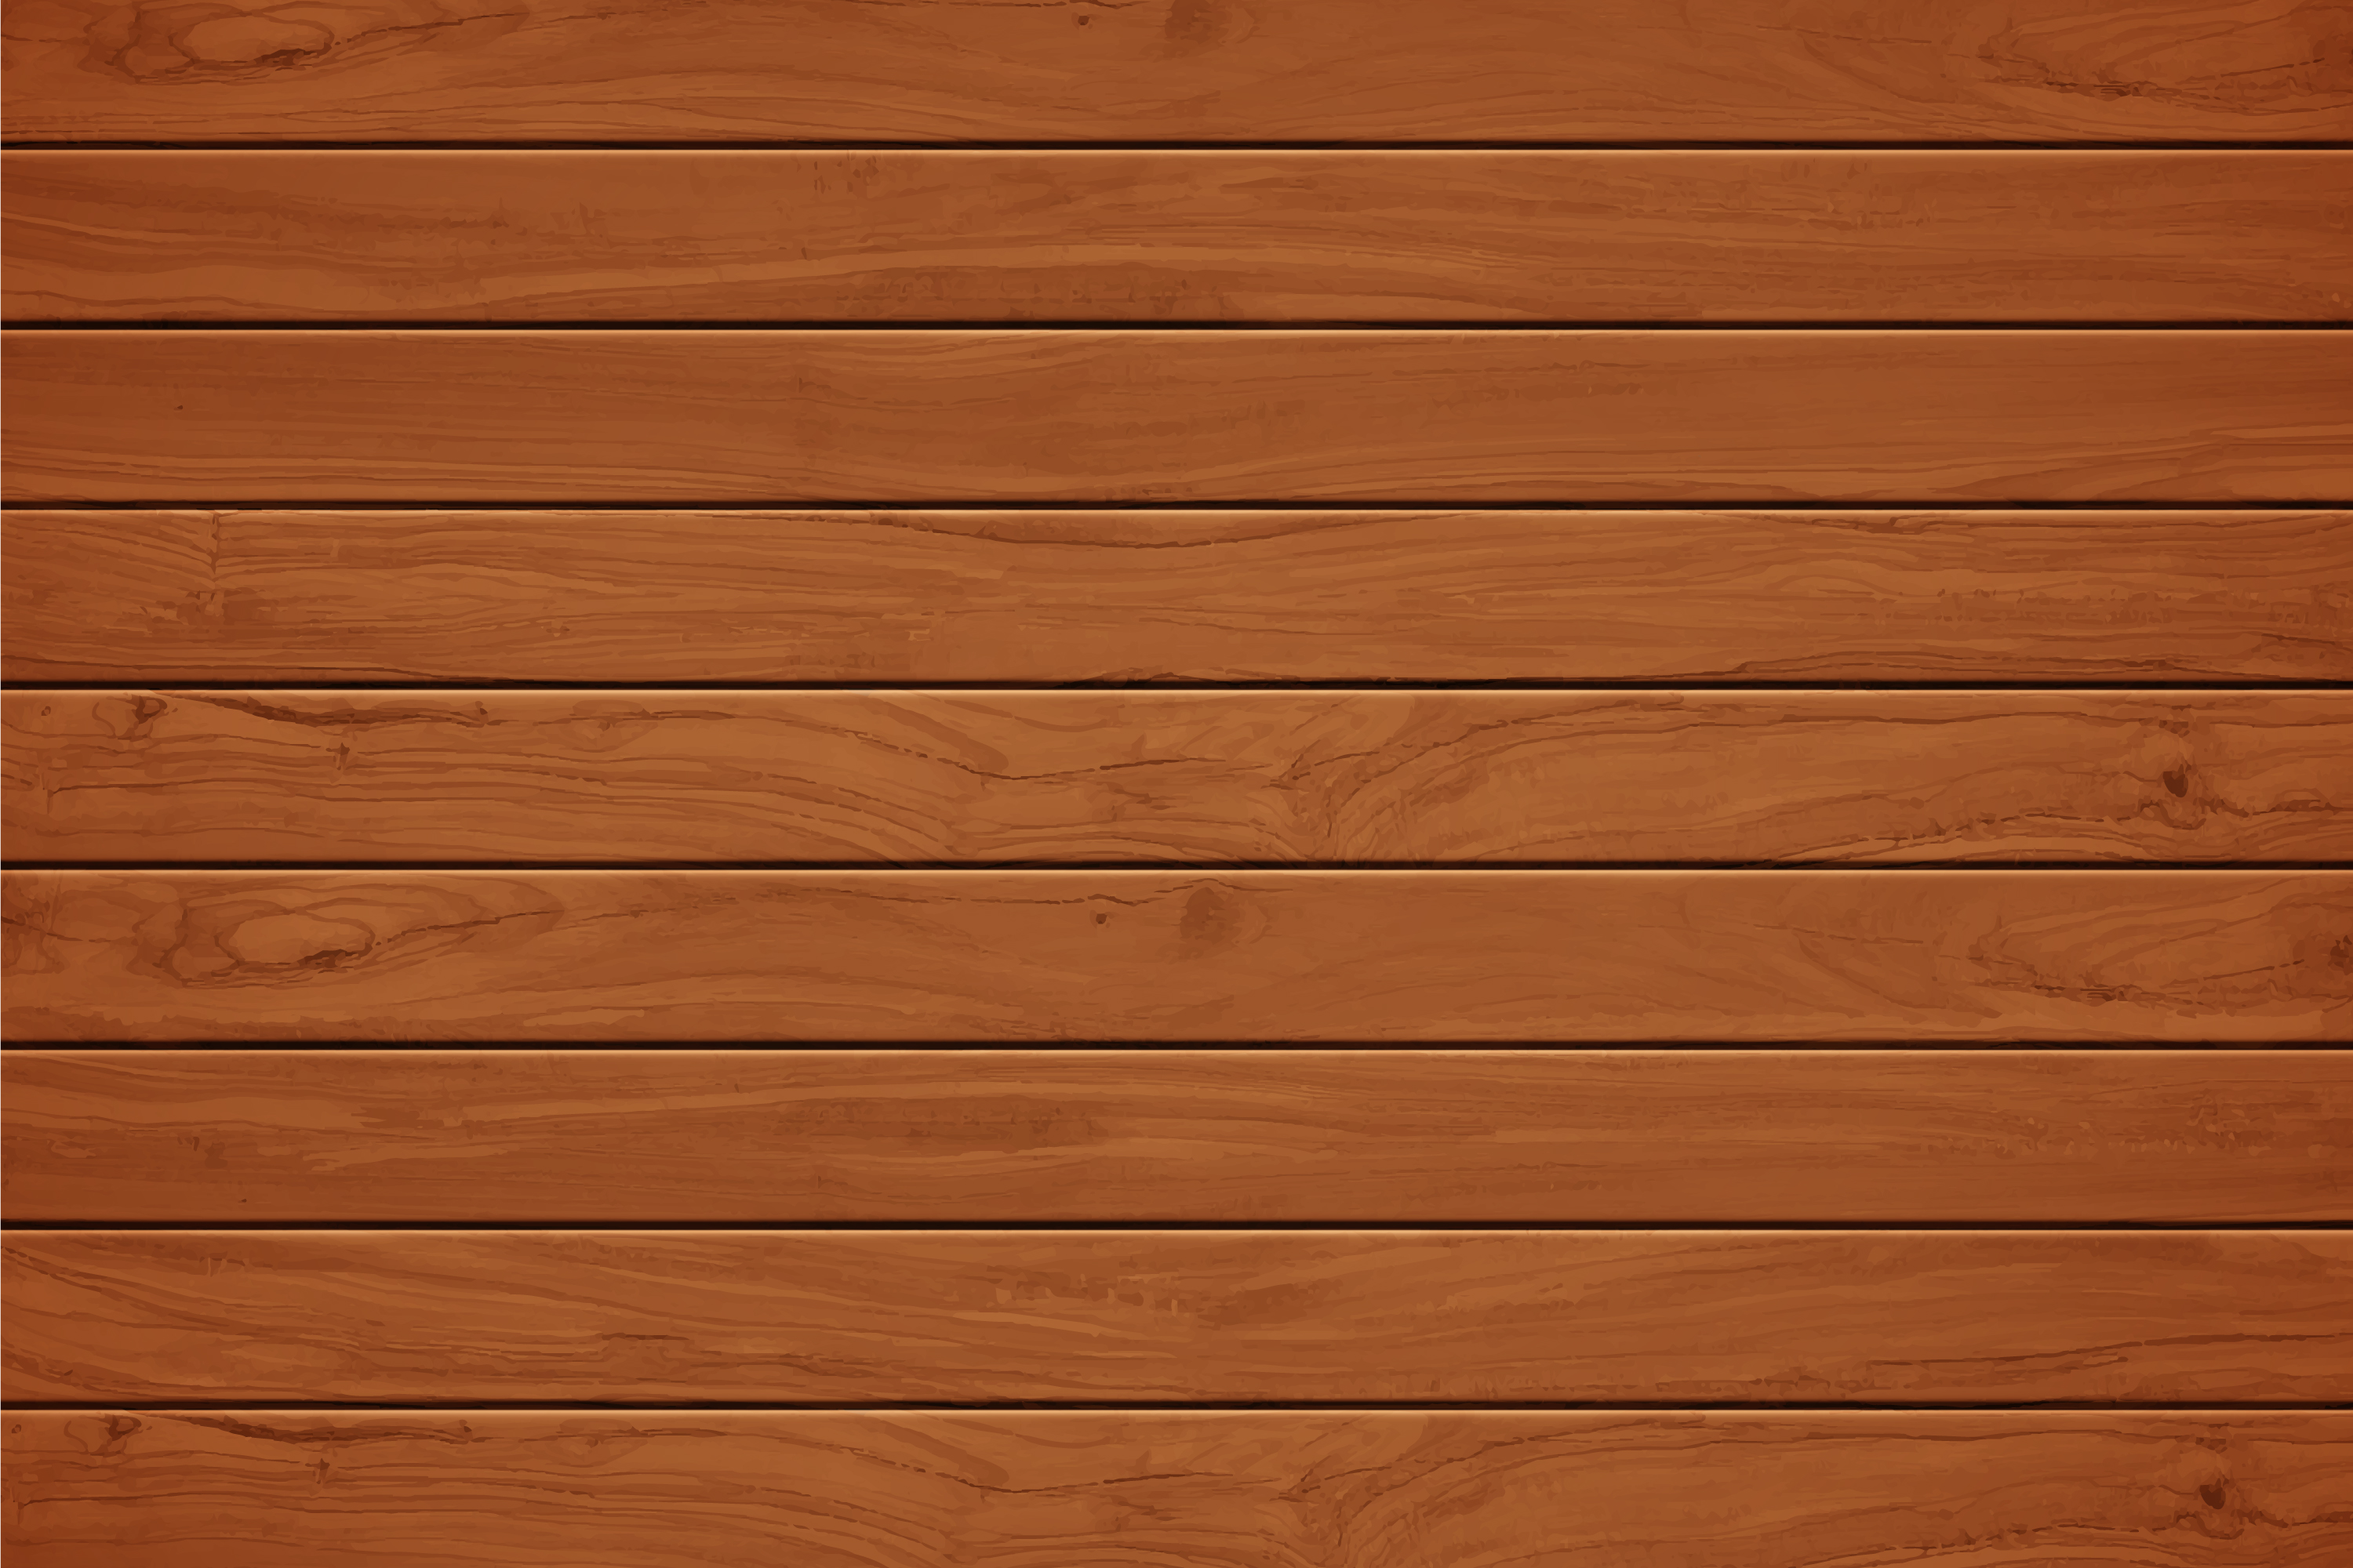
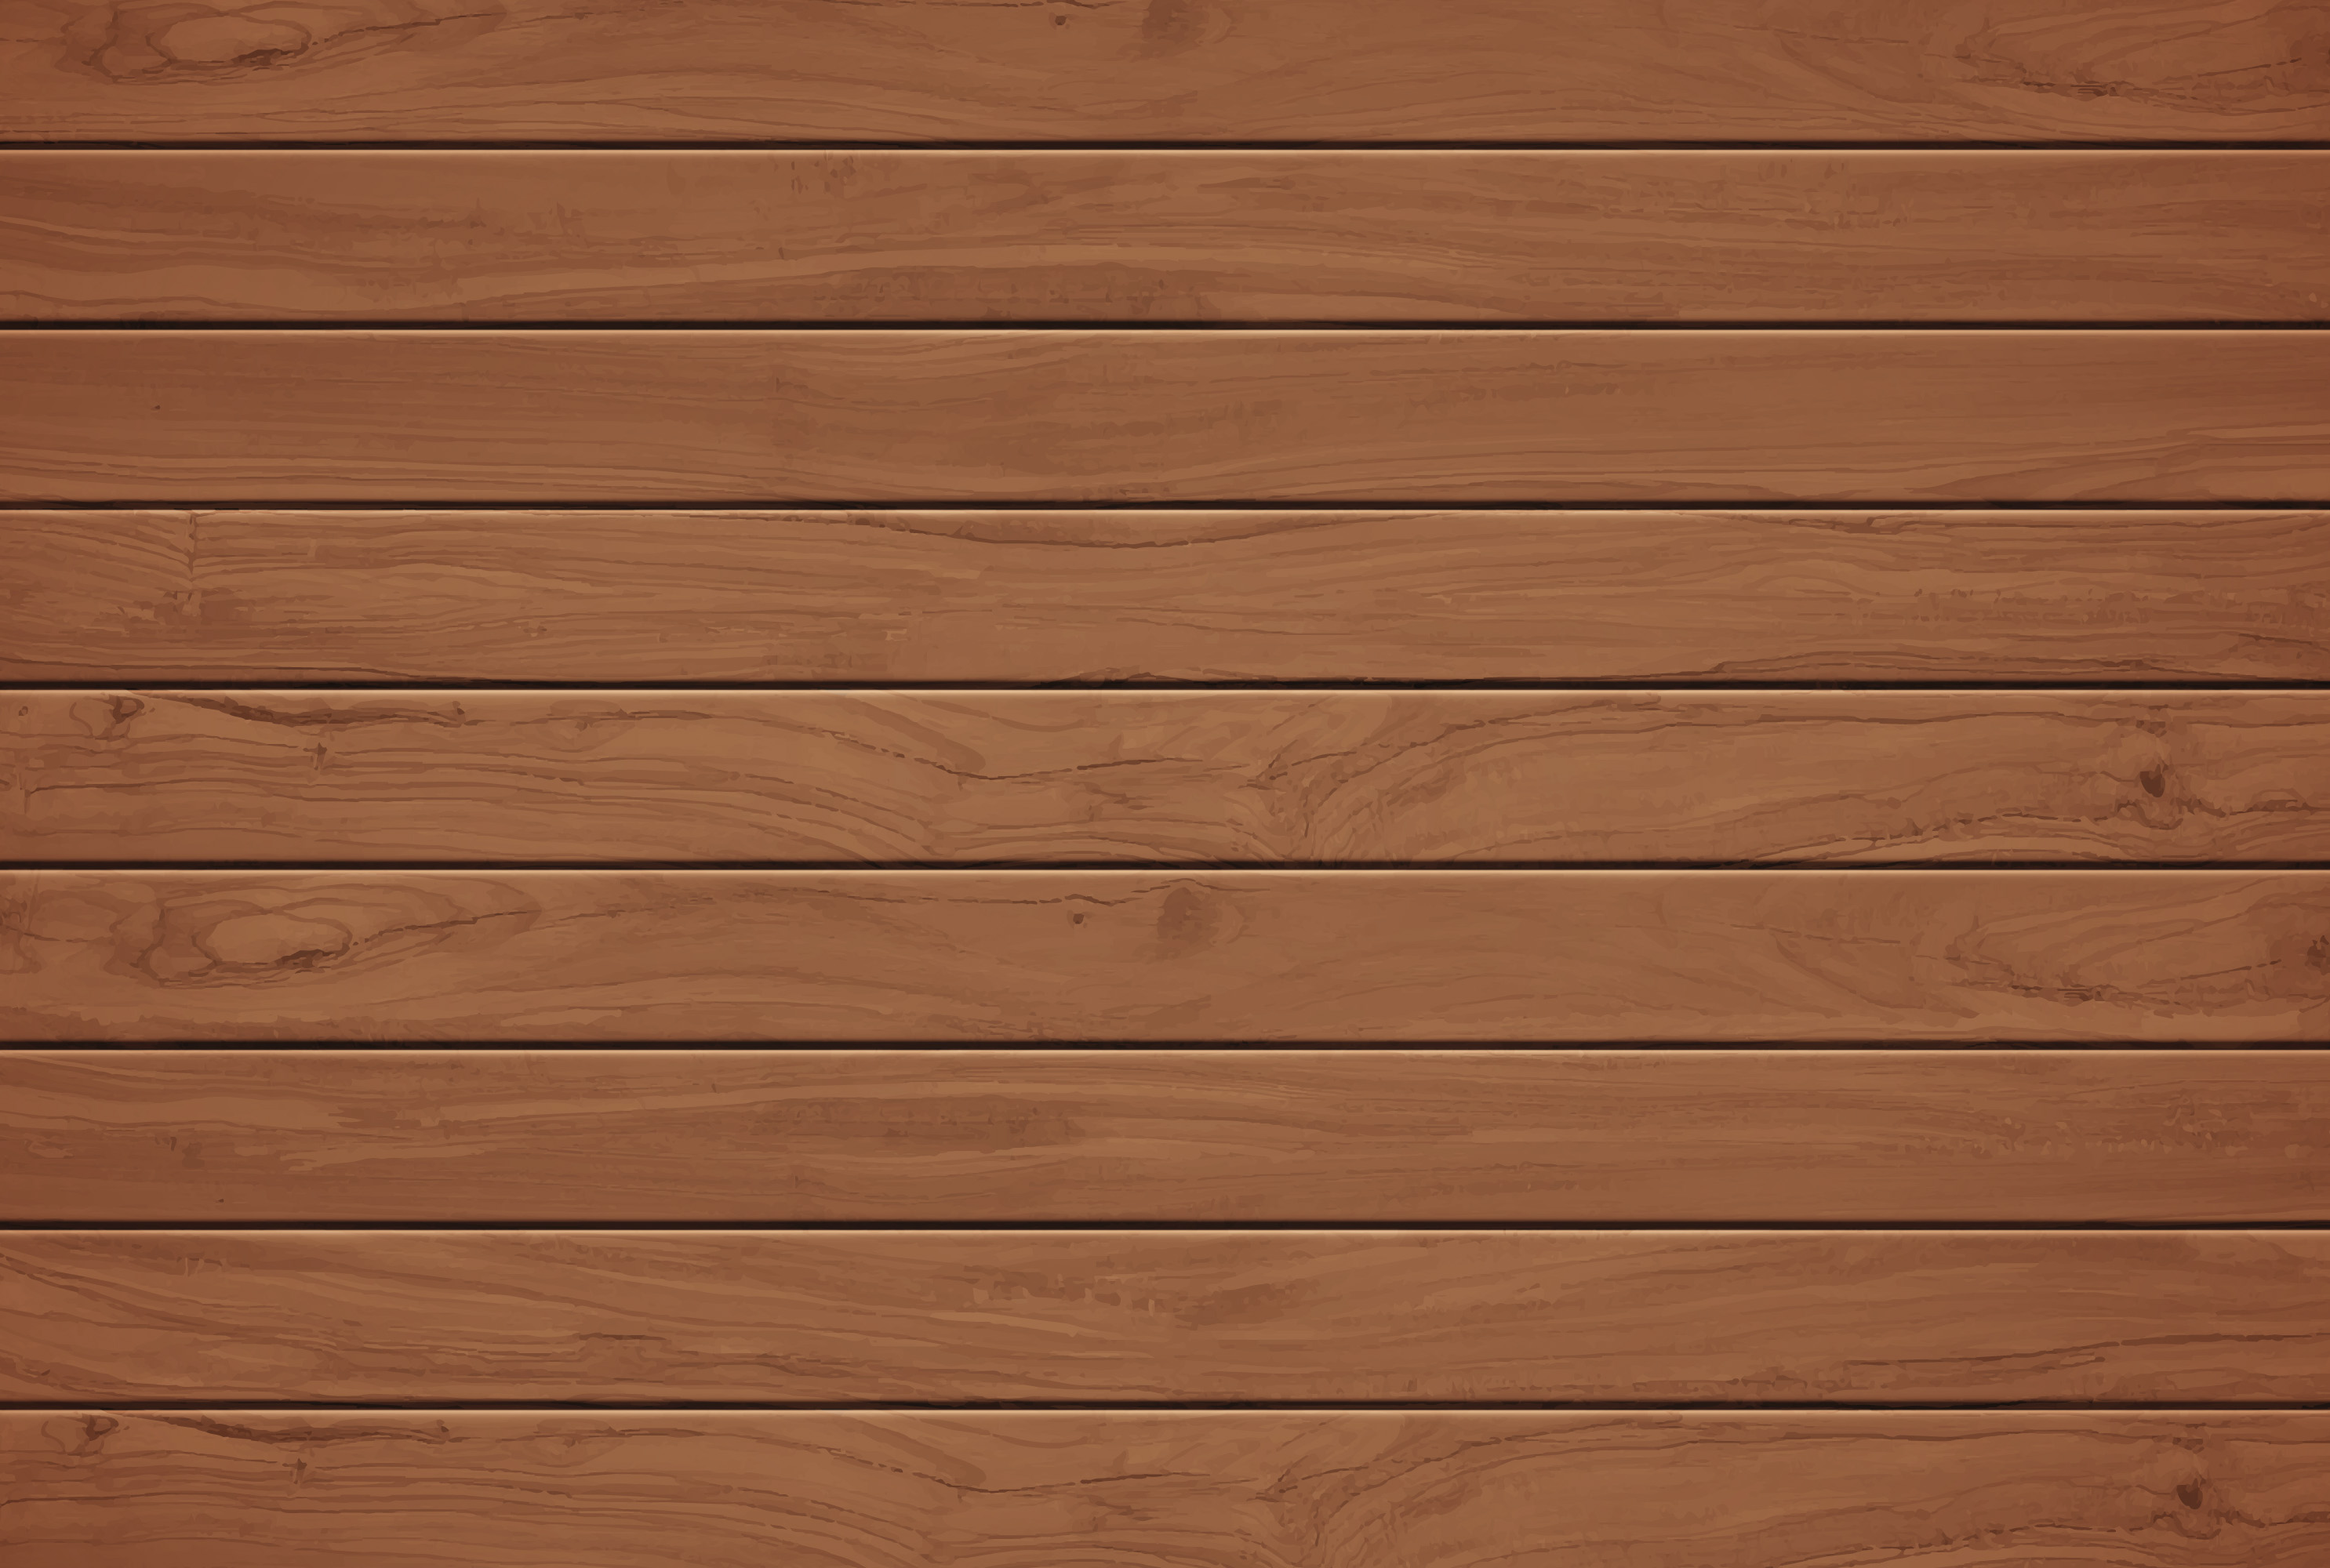
[KMH] 캠핑 메인페이지 완료, 나무보드 색상 변경 교체해놨음

diff --git a/src/main/resources/static/kmh/css/main.css b/src/main/resources/static/kmh/css/main.css
@@ -14,6 +14,13 @@
     font-style: normal;
 }
 
+@font-face {
+    font-family: 'BMJUA';
+    src: url('https://cdn.jsdelivr.net/gh/projectnoonnu/noonfonts_one@1.0/BMJUA.woff') format('woff');
+    font-weight: normal;
+    font-style: normal;
+}
+
 .body {
     margin: 0;
     padding: 0;
@@ -101,28 +108,42 @@
 }
 
 .map-txt-wrap {
-    border: 3px solid black;
+    border: 0.5vw solid rgb(76 44 9);
     margin-top: 7vw;
     display: grid;
+    justify-content: center;
+    margin-left: auto;
+    margin-right: auto;
     place-items: center;
+    width: 40vw;
+    height: 6vw;
+    padding: 1vw;
+    border-radius: 2vw;
+    background-image: url("../../../../resources/static/img/기타/나무보드.jpg");
+    background-repeat: no-repeat;
+    background-size: cover;
 }
 
 .map-title {
     font-family: 'JalnanGothic';
-    font-size: 3vw;
+    font-size: 3.2vw;
     font-weight: bolder;
+    color: #ccdf9c;
+    -webkit-text-stroke: 0.01vw black;
+
 }
 
 .map-sub-txt {
     font-family: 'SOYOMapleBoldTTF';
-    font-size: 1vw;
+    font-size: 1.4vw;
     margin-top: 0.5vw;
+    color: white;
 }
 
 .search-wrap {
     width: 100%;
     height: 40vw;
-    margin-top: 1vw;
+    margin-top: 2vw;
 }
 
 .background-map {
@@ -130,8 +151,11 @@
     justify-content: center;
     margin: auto;
     width: 75%;
-    background-color: rgb(117 101 78);
-    border-radius: 5%;
+    border: 0.5vw solid rgb(76 44 9);
+    border-radius: 3vw;
+    background-image: url("../../../../resources/static/img/기타/나무보드.jpg");
+    background-repeat: no-repeat;
+    background-size: cover;
 }
 
 
@@ -140,9 +164,10 @@
     height: 5vw;
     display: flex;
     justify-content: center;
-    margin-top: 2vw;
-
+    margin-top: 1.8vw;
 }
+
+
 
 .map-all {
     width: 75%;
@@ -153,8 +178,6 @@
     margin-right: auto;
     margin: auto;
     padding: 1%;
-
-
 }
 
 
@@ -184,16 +207,14 @@
     height: 30vw;
     overflow-y: scroll;
     font-size: 0.7vw;
-<<<<<<< HEAD
     border-top-right-radius : 5%;
     border-bottom-right-radius : 5%;
-=======
     border-top-right-radius: 5%;
     border-bottom-right-radius :5%;
-
->>>>>>> front-mh
 }
 
+
+/*리스트 스크롤 css*/
 #search-result-list::-webkit-scrollbar {
     width: 10px;
 }
@@ -203,32 +224,28 @@
 }
 
 #search-result-list::-webkit-scrollbar-thumb {
-    background-color: rgb(0, 52, 255);
+    background-color: rgb(43, 128, 66);
     width: 8px;
     border-radius: 30px;
 }
-<<<<<<< HEAD
+
 #search-result-list::-webkit-scrollbar-track{
     background-color: rgba(0,0,0,0);
 }
 
-=======
 
 #search-result-list::-webkit-scrollbar-track {
     background-color: rgba(0, 0, 0, 0);
 }
->>>>>>> front-mh
-
 
 /*검색부분 버튼 CSS*/
-
 .mh-button {
     font-family: 'SOYOMapleBoldTTF';
     width: 7vw;
     height: 3vw;
     display: inline-block;
     padding: 1vw 2vw;
-    font-size: 1vw;
+    font-size: 1.2vw;
     cursor: pointer;
     text-align: center;
     text-decoration: none;
@@ -236,8 +253,9 @@
     color: #fff;
     background-color: #609f55;
     border: none;
-    border-radius: 5%;
+    border-radius: 0.5vw;
     box-shadow: 0 0.7vw #1c4728;
+    line-height: 1vw;
 }
 
 .mh-button:hover {
@@ -253,11 +271,9 @@
 .mh-button > span {
     display: flex;
     justify-content: center;
-
 }
 
 /*검색창 CSS*/
-
 .search-input {
     font-family: 'SOYOMapleBoldTTF';
     display: flex;
@@ -265,13 +281,13 @@
     cursor: pointer;
     text-align: center;
     width: 20vw;
-    height: 3.5vw;
+    height: 3.3vw;
     margin-right: 1vw;
-    border-radius: 5%;
+    border-radius: 0.5vw;
     outline: none;
     border: 0;
     background-color: rgb(250 250 250);
-    font-size: 1vw;
+    font-size: 1.2vw;
 }
 
 /*리스트 fadeIn 효과*/
@@ -298,10 +314,9 @@
     }
 }
 
-/* 리스트 위치 조정 */
-
+/* 리스트 박스 */
 .camping-area-info-box {
-    font-family: 'SOYOMapleBoldTTF';
+    font-family: 'BMJUA';
     background-color: rgb(236, 236, 236);
     width: 23.5vw;
     height: 6.5vw;
@@ -311,8 +326,9 @@
     margin-top: 1vw;
     border-bottom: 0.2vw solid #b9b9b9;
     border-radius: 3%;
-
+    display: grid;
 }
+
 
 .camping-area-name {
     margin-left: 1vw;
@@ -321,15 +337,18 @@
 
 .button-wrapper {
     margin-left: 1vw;
+    margin-bottom: 1vw;
 }
 
 
 /*리스트 버튼 CSS test*/
-
 .open-detail-button {
-    font-family: 'SOYOMapleBoldTTF';
+    font-family: 'BMJUA';
+    background-color: #609f55;
+    color: white;
+    border: 0.07vw solid #173b21;
+    height: 1.5vw;
+    font-size: 1vw;
+    width: 7.5vw;
+    border-radius: 3%;
 }
-<<<<<<< HEAD
-=======
-
->>>>>>> front-mh
